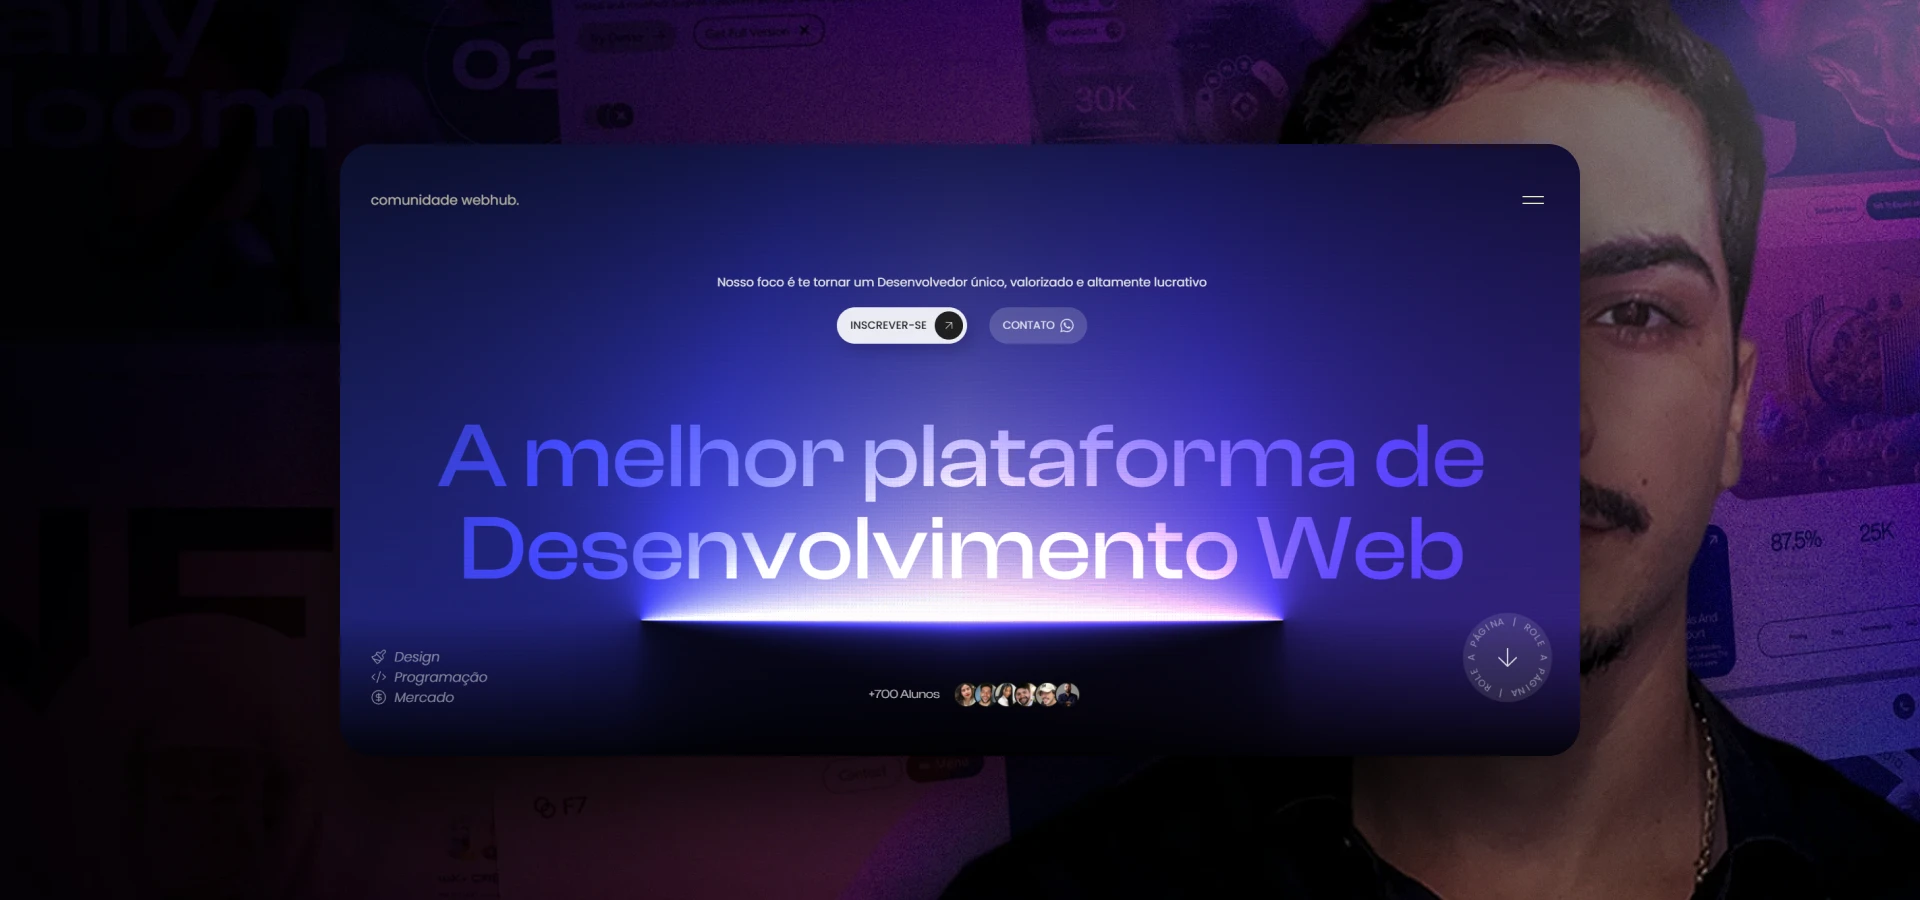
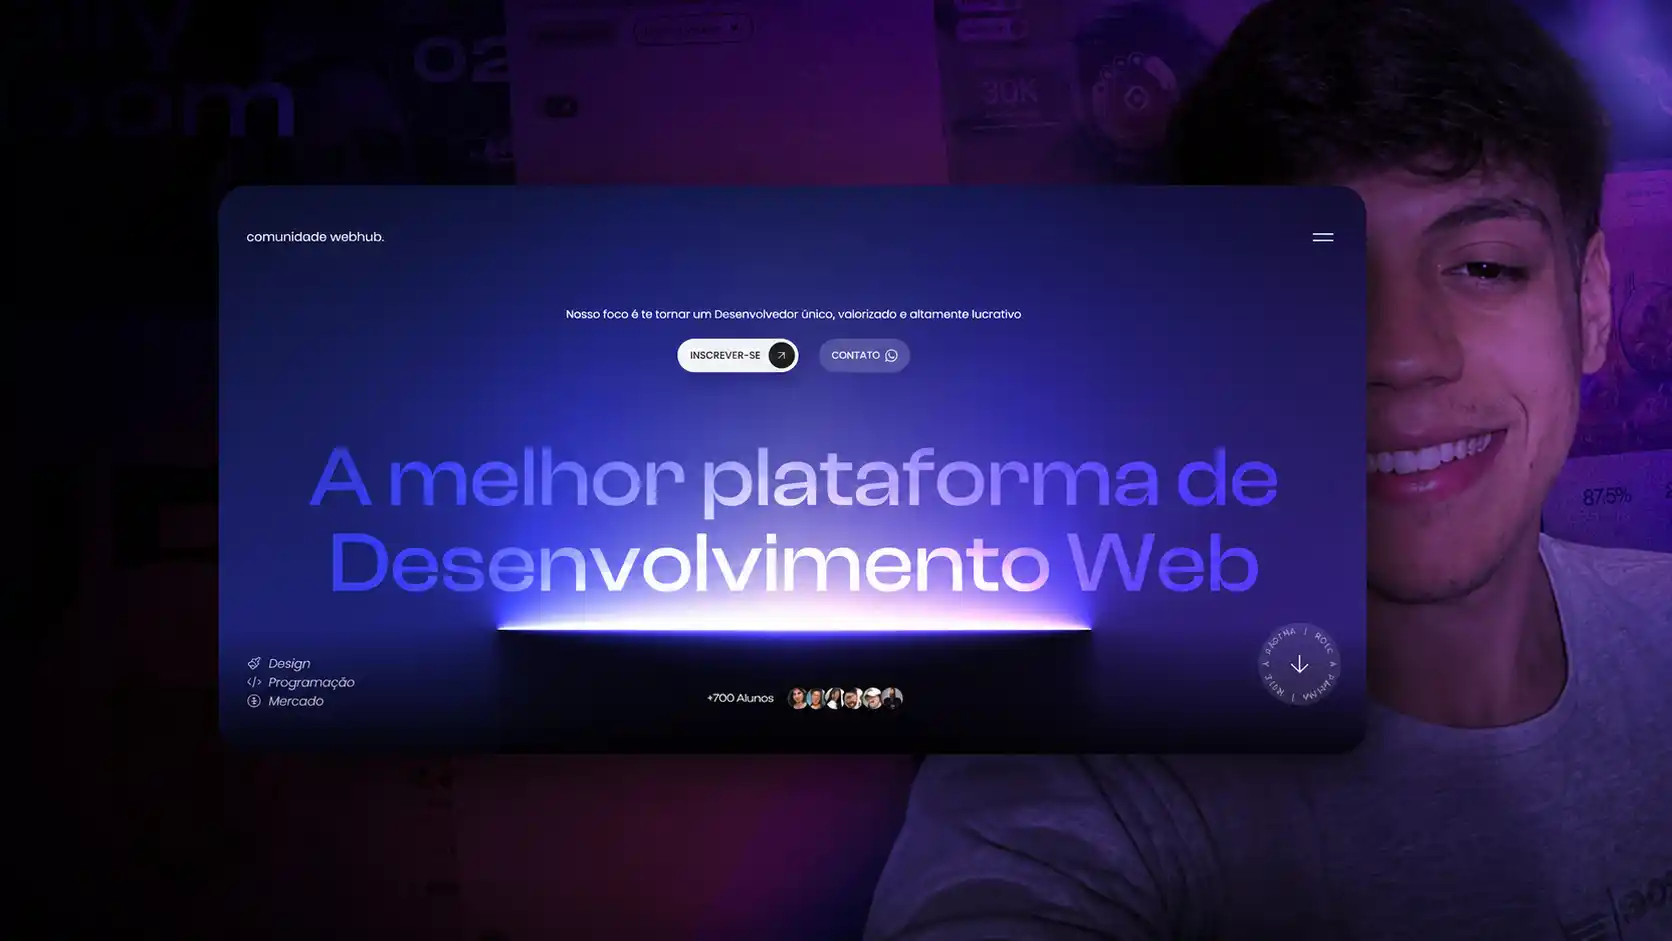
Adicionando o objeto 3D com movimento ainda não completo

diff --git a/script.js b/script.js
@@ -60,7 +60,7 @@ window.addEventListener("load", ()=>{
    const linhaDoTempo2 = gsap.timeline({
         scrollTrigger: {
             trigger: ".secao4",
-            markers: true,
+            markers: false,
             scrub: 2, //começa a animação quando o elemento entra na tela e termina quando sai da tela
              end: "+=4000",
             pin: true, // deixa a pagina travada em quanto a animação estiver acontecendo
@@ -119,18 +119,55 @@ window.addEventListener("load", ()=>{
     const camera = new THREE.PerspectiveCamera(40, window.innerWidth / window.innerHeight, 0.1, 1000);
     camera.position.z = 4; // vai posicionar a camera para trás da cena, para que possamos ver os objetos
     //renderizador (tela de que tamanho vai ser renderizada a cena, antialias (suaviza as bordas), alpha (transparencia))
-    const renderer = new THREE.WebGLRenderer({antialias: true, alpha: true});
+    const renderer = new THREE.WebGLRenderer({alpha: true, antialias: true}); // vai criar o renderizador
     renderer.setSize(window.innerWidth, window.innerHeight); // vai setar o tamanho do renderizador para o tamanho da tela
     const divDiamante = document.querySelector(".divDiamante"); // vai pegar a div que vai projetar o 3D 
     divDiamante.appendChild(renderer.domElement); // vai adicionar o renderizador na div, como se tivesse adicionando alguma coisa na div lá no html
-
+    
     //inserir o objeto 3D
+    let diamante = null; // vai criar a variavel diamante para armazenar o objeto 3D
     const gltfLoader = new GLTFLoader(); // vai carregar o objeto 3D
     gltfLoader.load("img/diamond-compressed.glb",(objeto) =>{
-        const diamante = objeto.scene
+        diamante = objeto.scene
+        diamante.position.z = -10;
+        diamante.position.y =  2;
+
+        const linhadoTempo3 = gsap.timeline({
+            scrollTrigger: {
+            trigger: ".secao4",
+            scrub: 2, //começa a animação quando o elemento entra na tela e termina quando sai da tela
+             end: "+=4000",
+            }
+        })
+
+        linhadoTempo3.to(diamante.position, {
+            y: -2,            
+        })
+        linhadoTempo3.to(diamante.rotation, {
+            x:2
+        })
+
         cena.add(diamante); // vai adicionar o objeto 3D na cena
     }); 
-    renderer.render(cena, camera); // vai renderizar a cena e a camera
+    //INSERIR TEXTURA NO OBJETO 3D
+    const txtLoader = new THREE.TextureLoader(); // vai carregar a textura
+    txtLoader.load("img/hdri.webp", (textura)=>{
+        textura.mapping = THREE.EquirectangularReflectionMapping; // vai mapear a textura para o objeto 3D
+        const pmrem = new THREE.PMREMGenerator(renderer); // vai gerar a textura para o objeto 3D
+        const ambiente = pmrem.fromEquirectangular(textura).texture;
+        cena.environment = ambiente; // vai adicionar a textura na cena
+    })
+
+    //HZ
+    function animar(){
+        if(diamante != null){
+            diamante.rotation.y += 0.01; // vai rotacionar o objeto 3D o + significa diamante.rotation.y = diamante.rotation.y + 0.01, ou seja, vai rotacionar o objeto 3D no eixo y
+        }
+        renderer.render(cena, camera); // vai renderizar a cena e a camera
+        requestAnimationFrame(animar); // vai chamar a função animar a cada frame
+    }
+
+    animar(); // vai chamar a função animar
 });
 
 

diff --git a/index.html b/index.html
@@ -16,7 +16,7 @@
   <body>
     <!-- HEADER -->
     <header>
-      <h1><strong>web</strong>hub</h1>
+      <h1><strong>Port</strong>fólio</h1>
       <img src="img/logo.svg" alt="" />
     </header>
 
@@ -107,9 +107,9 @@
         <video class="videofooter"></video>
       </div>
       <div class="esquerda">
-        <h2><strong>web</strong>hub</h2>
+        <h2><strong>Port</strong>fólio</h2>
         <div>
-          <p>© 2026 Gustavo Campelo - All rights reserved</p>
+          <p>© 2026 Vinicius Martins - All rights reserved</p>
           <a href="#">Política de Privacidade</a>
         </div>
       </div>

diff --git a/style.css b/style.css
@@ -240,6 +240,10 @@ header {
   height: 100vh;
   align-items: center;
   justify-content: center;
+  .divDiamante
+  {
+    z-index: 2;
+  }
 
   h2 {
     font-size: 9vw;
